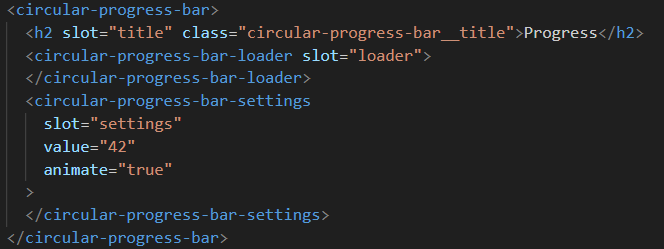
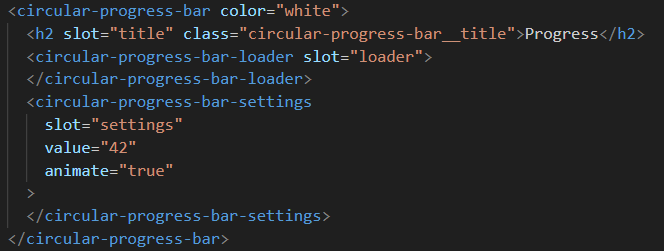
update README

diff --git a/README.md b/README.md
@@ -16,7 +16,10 @@ A Web Component that can be used to track down progress of any desired task. It'
         In order to toggle animation (i.e. rotation of a progress bar) there's a corresponding <code>animate</code> control;
     </li>
     <li>
-        Like in case with <code>animate</code> control, there is also a <code>hide</code> control, which, as the name suggests, can hide a progress bar completely.
+        Like in case with <code>animate</code> control, there is also a <code>hide</code> control, which, as the name suggests, can hide a progress bar completely;
+    </li>
+    <li>
+        It's also possible to customize background color of a <code>circular-progress-bar</code>: to do that simply pass an attribute <code>color</code> with a desired value (default value is <code>white</code>).
     </li>
 </ul>
 
